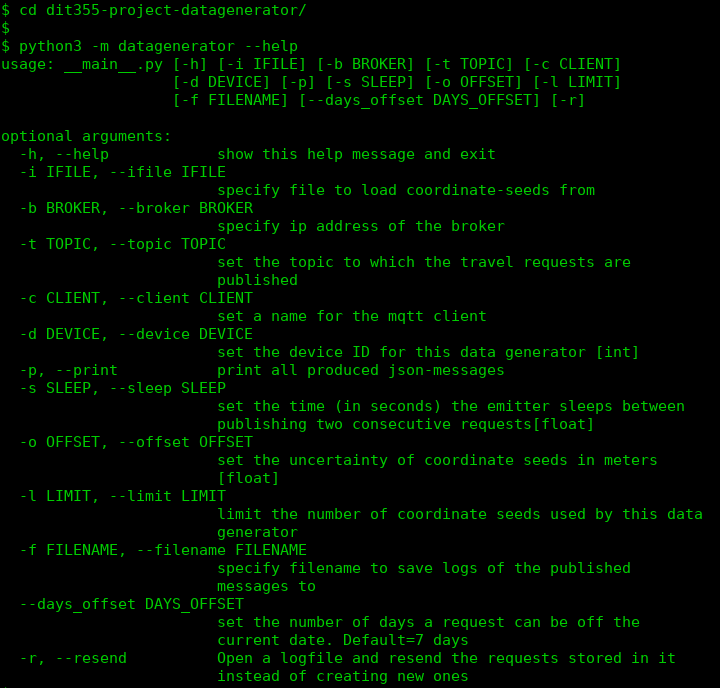
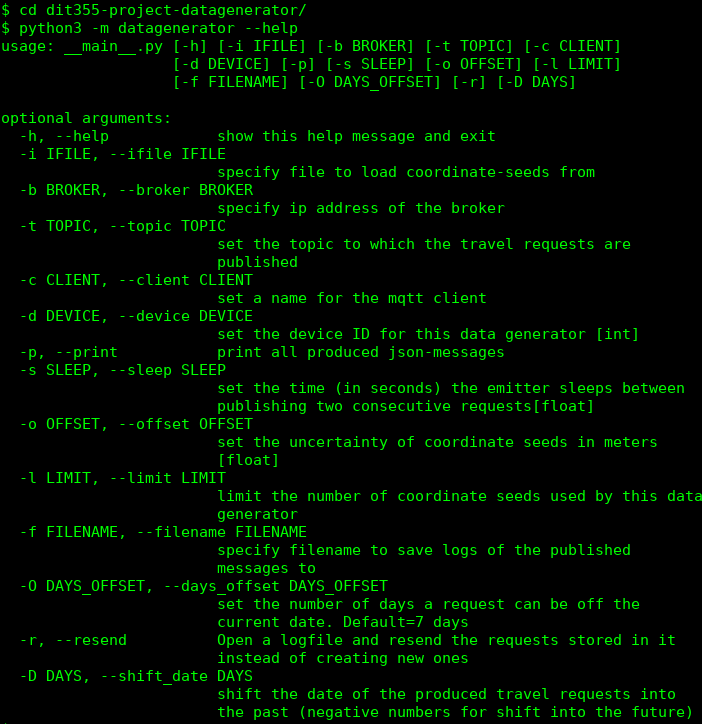
Update README

diff --git a/README.md b/README.md
@@ -44,6 +44,8 @@ pip3 install -r requirements.txt
 ```
 If this command completes successfully, the correct versions of all necessary dependencies should be installed on your system.  
 
+Otherwise you can check [the requirements](requirements.txt) and try to manually install any missing dependencies.
+
 **Install Tkinter:**  
 
 Tkinter is a Python framework for user interfaces. 
@@ -70,12 +72,47 @@ python3 -m datagenerator --help
 ```
 The result should look like this:  
 
-![command line help](readme/datagenerator_help.png)
-## The data generator is written in Python
+![command line help](readme/datagenerator_help.png)  
 
-The following packages are required:
-- Spaceholder A --version 1.2
-- Spaceholder B --version 1.0
+Now the parameters listed in this list might seem a bit cryptic if you are not familiar of 
+how it creates and emits travel requests. 
+
+So let's quickly explain all these options and shed some light on what they do:
+* The first optional argument just prints the help statement you see in the screenshot
+* The next parameter is used to select a file with coordinates. This is option can be used 
+to seed the coordinate generator used for the requests. It randomly picks from the provided locations.
+* BROKER specifies the address of the broker
+* TOPIC sets the topic the emitter will publish to
+* CLIENT sets the MQTT client's name
+* The print option can be used to print the emitted messages in the commandline
+* SLEEP sets how long the emitter will wait between emitting two requests. 
+This can be used to set the load on the system.
+* OFFSET is used to adjust another dimension of randomness in the generated coordinates.
+Each coordinate is created at a random location in a circle with radius OFFSET 
+around the currently selected seed. 
+* LIMIT defines how many coordinates from the list of seed coordinates are used. 
+This can be used to create random clusters by setting a low value.
+* FILENAME is the output file for logs produced while running the generator
+* DAYS_OFFSET sets the number of days the randomly produced timestamp can be 
+before or after the current daytime.
+* The **resend** option can be used to replay messages from a logfile instead of creating new ones.
+* The final option can be used to create requests at any arbitrary point in time by shifting
+all request DAYS into the past (give negative days for the future) 
+
+### Example
+
+You could for example run the emitter with the following command:
+```bash
+python3 -m datagenerator -p -t example -s 1 -D 50
+```
+This will run an emitter using mostly the default values. 
+It will print the emitted messages to the command line, 
+publish on the topic "example", wait 1 second between messages, 
+and date back the requests by 50 days.  
+
+The output of this command should look something like this:  
+
+![emitter example](readme/datagenerator_example.png)
 
 ## Support
 
